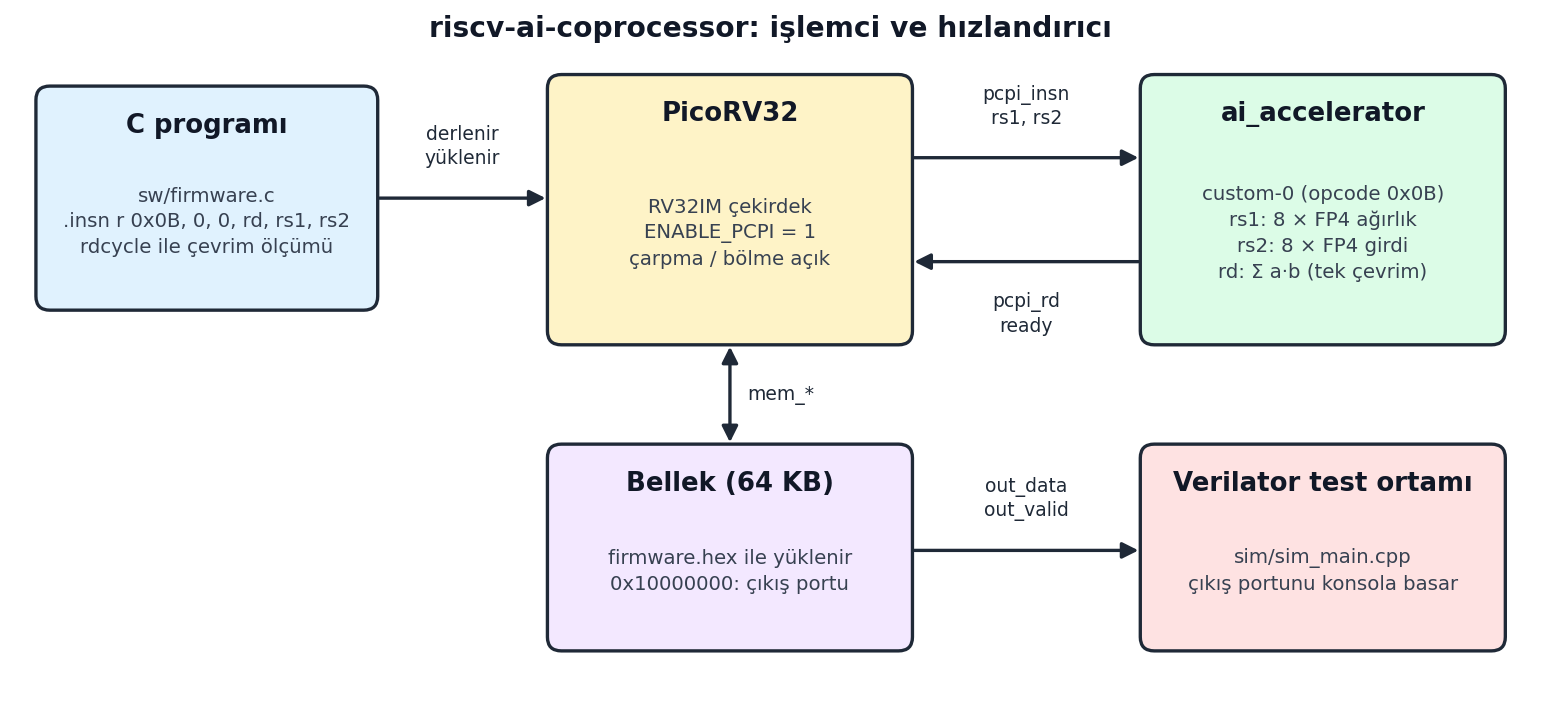
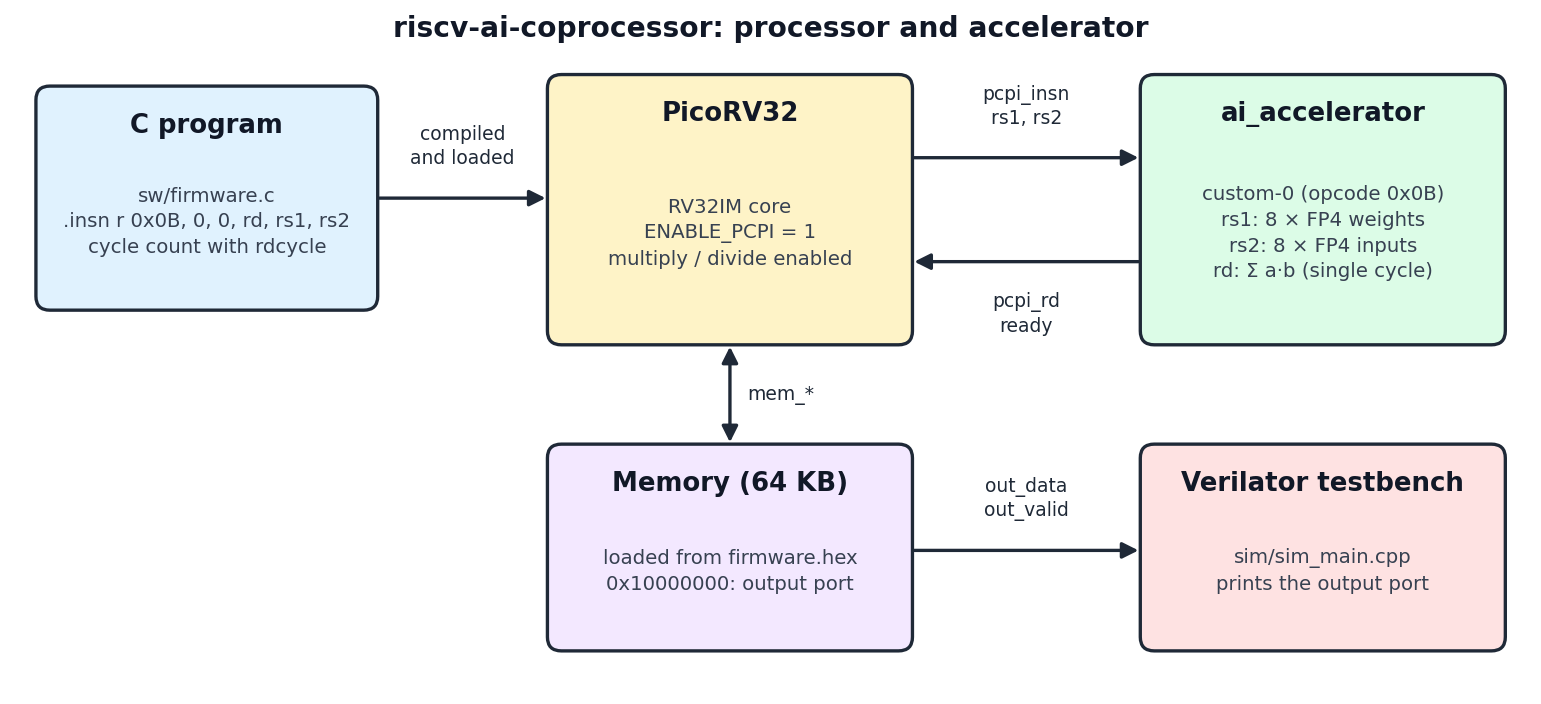
README translated to English

diff --git a/README.md b/README.md
@@ -1,42 +1,42 @@
 # riscv-ai-coprocessor
 
-PicoRV32 RISC-V işlemcisine PCPI arayüzünden bağlanan, yapay zekâ işlemleri için küçük bir SIMD hızlandırıcı. Hızlandırıcı tek bir özel komutla 8 elemanlı 4 bitlik iki vektörün iç çarpımını (nokta çarpımı) bir saat çevriminde hesaplar. Konvolüsyon ve matris çarpımı (GEMM) gibi işlemlerin iç döngüsü bu komutla hızlandırılır.
+A small SIMD accelerator for AI workloads, attached to the PicoRV32 RISC-V core through its PCPI interface. With a single custom instruction, the accelerator computes the dot product of two 8-element vectors of 4-bit values in one clock cycle. This speeds up the inner loop of operations such as convolution and matrix multiplication (GEMM).
 
-Proje Verilog ile yazılmıştır ve Verilator ile simüle edilir. İşlemcide çalışan test programları C ile yazılmıştır.
+The hardware is written in Verilog and simulated with Verilator; the test programs running on the processor are written in C.
 
-## Nasıl çalışır
+## How it works
 
-![Mimari](docs/mimari.png)
+![Architecture](docs/mimari.png)
 
-- **Özel komut:** RISC-V'nin `custom-0` opcode alanı (`0x0B`) kullanılır. C kodundan satır içi assembly ile çağrılır:
+- **Custom instruction:** uses the RISC-V `custom-0` opcode space (`0x0B`). It is called from C with inline assembly:
   ```c
-  asm volatile (".insn r 0x0B, 0, 0, %0, %1, %2" : "=r"(sonuc) : "r"(agirliklar), "r"(girdiler));
+  asm volatile (".insn r 0x0B, 0, 0, %0, %1, %2" : "=r"(result) : "r"(weights), "r"(inputs));
   ```
-- **Veri biçimi:** `rs1` ve `rs2` yazmaçlarının her biri sekiz adet 4 bitlik değer taşır. Değer tablosu: ±{0, 0,0625, 0,125, 0,25, 0,5, 0,75, 1,0, 1,5} (E2M1 benzeri FP4).
-- **Donanım:** değerler sabit noktaya çevrilir (1,0 = 16), sekiz çarpım paralel yapılır ve toplanır. Sonuç `rd` yazmacına 256 ölçekli tam sayı olarak döner.
-- **İşlemci:** PicoRV32, çarpma ve bölme açık (`ENABLE_MUL`, `ENABLE_DIV`), 64 KB bellek. Program `sw/firmware.hex` dosyasından belleğe yüklenir.
+- **Data format:** `rs1` and `rs2` each hold eight 4-bit values. Value table: ±{0, 0.0625, 0.125, 0.25, 0.5, 0.75, 1.0, 1.5} (an E2M1-like FP4 format).
+- **Hardware:** the values are converted to fixed point (1.0 = 16), the eight products are computed in parallel and summed. The result is returned in `rd` as an integer scaled by 256.
+- **Processor:** PicoRV32 with multiply and divide enabled (`ENABLE_MUL`, `ENABLE_DIV`) and 64 KB of memory. The program is loaded into memory from `sw/firmware.hex`.
 
-## Dosyalar
+## Files
 
-| Dosya | İçerik |
+| File | Contents |
 |---|---|
-| `rtl/ai_accelerator.v` | FP4 SIMD hızlandırıcı (PCPI eş işlemcisi) |
-| `rtl/picorv32.v` | PicoRV32 RISC-V çekirdeği (YosysHQ) |
-| `sim/top.v` | İşlemci + hızlandırıcı + bellek üst modülü |
-| `sim/sim_main.cpp` | Verilator test ortamı; çıkış portuna yazılanları konsola basar |
-| `sw/firmware.c` | İşlemcide çalışan test programı |
-| `sw/start.S`, `sw/sections.lds` | Başlangıç kodu ve bağlayıcı betiği |
-| `sw/makehex.py` | `firmware.bin` → `firmware.hex` dönüştürücü |
-| `sw/gen_model.py` | Rastgele FP4 test verisi ve Python referans sonuçları üretir (`model_data.h`) |
+| `rtl/ai_accelerator.v` | FP4 SIMD accelerator (PCPI coprocessor) |
+| `rtl/picorv32.v` | PicoRV32 RISC-V core (YosysHQ) |
+| `sim/top.v` | Top module: processor + accelerator + memory |
+| `sim/sim_main.cpp` | Verilator testbench; prints whatever the program writes to the output port |
+| `sw/firmware.c` | Test program running on the processor |
+| `sw/start.S`, `sw/sections.lds` | Startup code and linker script |
+| `sw/makehex.py` | `firmware.bin` → `firmware.hex` converter |
+| `sw/gen_model.py` | Generates random FP4 test data and Python reference results (`model_data.h`) |
 
-## Kurulum ve çalıştırma
+## Build and run
 
-**Gerekenler** (Linux ya da WSL önerilir):
-- RISC-V GCC araç zinciri (`riscv64-unknown-elf-gcc` ya da `riscv32-unknown-elf-gcc`)
+**Requirements** (Linux or WSL recommended):
+- RISC-V GCC toolchain (`riscv64-unknown-elf-gcc` or `riscv32-unknown-elf-gcc`)
 - Verilator
-- Python 3 ve NumPy (`gen_model.py` için)
+- Python 3 and NumPy (for `gen_model.py`)
 
-Ubuntu'da örnek kurulum:
+Example setup on Ubuntu:
 ```bash
 sudo apt install gcc-riscv64-unknown-elf verilator python3-numpy
 git clone https://github.com/SalihAlici/riscv-ai-coprocessor.git
@@ -44,30 +44,30 @@ cd riscv-ai-coprocessor
 ```
 
 ```bash
-# 1) Yazılımı derle ve belleğe yüklenecek hex dosyasını üret
+# 1) Build the software and generate the memory image
 cd sw
 riscv64-unknown-elf-gcc -march=rv32im -mabi=ilp32 -nostdlib -O2 -T sections.lds start.S firmware.c -o firmware.elf
 riscv64-unknown-elf-objcopy -O binary firmware.elf firmware.bin
 python3 makehex.py firmware.bin > firmware.hex
 
-# 2) Simülasyonu derle ve çalıştır
+# 2) Build and run the simulation
 cd ../sim
 verilator --cc --exe --build -Wno-fatal top.v ../rtl/picorv32.v ../rtl/ai_accelerator.v sim_main.cpp
 ./obj_dir/Vtop
 ```
 
-Dalga biçimi kaydı için `sim_main.cpp` içindeki `trace` satırları açılabilir; çıktı `waveform.vcd` olur.
+To record a waveform, enable the `trace` lines in `sim_main.cpp`; the output is written to `waveform.vcd`.
 
-## Testler ve sonuçlar
+## Tests and results
 
-Geliştirme sırasında şu testler yapıldı (commit geçmişinde):
-- PicoRV32 simülasyonu ve assembly testi.
-- **Hızlandırıcı ve yazılım karşılaştırması:** aynı iç çarpım INT4 sürümünde yazılımla 2180, hızlandırıcıyla 92 çevrimde hesaplandı (yaklaşık 23,7 kat hızlanma; çevrimler `rdcycle` ile ölçüldü).
-- 128 elemanlı dizi testi.
-- Matris çarpımı (GEMM) testi.
+The following tests were run during development (see the commit history):
+- PicoRV32 simulation and assembly test.
+- **Accelerator vs. software:** in the INT4 version, the same dot product took 2180 cycles in software and 92 cycles with the accelerator (about 23.7× faster; cycles measured with `rdcycle`).
+- 128-element array test.
+- Matrix multiplication (GEMM) test.
 
-Depodaki güncel `firmware.c` bir görüntü işleme gösterimi çalıştırır: 32×32 gri tonlu görüntüde kenar tespiti yapar ve sonucu konsola ASCII olarak çizer.
+The current `firmware.c` runs an image processing demo: it performs edge detection on a 32×32 grayscale image and draws the result in the console as ASCII art.
 
-## Lisans
+## License
 
-`rtl/picorv32.v` YosysHQ'nun PicoRV32 projesine aittir (ISC lisansı).
+`rtl/picorv32.v` belongs to YosysHQ's PicoRV32 project (ISC license).
